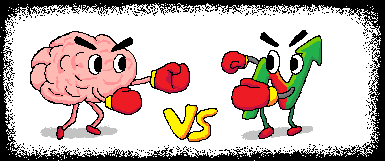
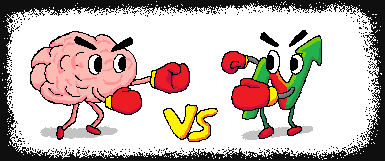
changed the file structure to be easier to read

Changed region(s): [[0.0, 0.0, 0.9974, 0.9938]]

diff --git a/website/tutorial_deployment.js b/website/tutorial_deployment.js
@@ -100,13 +100,13 @@ eval("{__webpack_require__.r(__webpack_exports__);\n/* harmony export */ __webpa
 
 /***/ },
 
-/***/ "./app_logic/game_loop.js"
-/*!********************************!*\
-  !*** ./app_logic/game_loop.js ***!
-  \********************************/
+/***/ "./app_logic/tutorial.js"
+/*!*******************************!*\
+  !*** ./app_logic/tutorial.js ***!
+  \*******************************/
 (__webpack_module__, __webpack_exports__, __webpack_require__) {
 
-eval("{__webpack_require__.a(__webpack_module__, async (__webpack_handle_async_dependencies__, __webpack_async_result__) => { try {\n__webpack_require__.r(__webpack_exports__);\n/* harmony import */ var _game_logic_functions_chart_js__WEBPACK_IMPORTED_MODULE_0__ = __webpack_require__(/*! ./game_logic_functions/chart.js */ \"./app_logic/game_logic_functions/chart.js\");\n/* harmony import */ var _game_logic_functions_price_container_js__WEBPACK_IMPORTED_MODULE_1__ = __webpack_require__(/*! ./game_logic_functions/price_container.js */ \"./app_logic/game_logic_functions/price_container.js\");\n/* harmony import */ var _game_logic_functions_event_broad_caster_js__WEBPACK_IMPORTED_MODULE_2__ = __webpack_require__(/*! ./game_logic_functions/event_broad_caster.js */ \"./app_logic/game_logic_functions/event_broad_caster.js\");\n/* harmony import */ var _game_logic_functions_trade_execution_js__WEBPACK_IMPORTED_MODULE_3__ = __webpack_require__(/*! ./game_logic_functions/trade_execution.js */ \"./app_logic/game_logic_functions/trade_execution.js\");\n/* harmony import */ var _game_logic_functions_current_profit_render_js__WEBPACK_IMPORTED_MODULE_4__ = __webpack_require__(/*! ./game_logic_functions/current_profit_render.js */ \"./app_logic/game_logic_functions/current_profit_render.js\");\n/* harmony import */ var _game_logic_functions_trade_history_js__WEBPACK_IMPORTED_MODULE_5__ = __webpack_require__(/*! ./game_logic_functions/trade_history.js */ \"./app_logic/game_logic_functions/trade_history.js\");\n/* harmony import */ var _constants_js__WEBPACK_IMPORTED_MODULE_6__ = __webpack_require__(/*! ./constants.js */ \"./app_logic/constants.js\");\n/* harmony import */ var _game_logic_functions_local_stats_js__WEBPACK_IMPORTED_MODULE_7__ = __webpack_require__(/*! ./game_logic_functions/local_stats.js */ \"./app_logic/game_logic_functions/local_stats.js\");\n/* harmony import */ var _game_logic_functions_confetti_js__WEBPACK_IMPORTED_MODULE_8__ = __webpack_require__(/*! ./game_logic_functions/confetti.js */ \"./app_logic/game_logic_functions/confetti.js\");\n\n\n\n\n\n\n\n\n\n\nconst priceDataContainer = new _game_logic_functions_price_container_js__WEBPACK_IMPORTED_MODULE_1__.PriceDataContainer()\nawait priceDataContainer.initialiseItSelfWithData()\n\nconst evenBroadCaster = new _game_logic_functions_event_broad_caster_js__WEBPACK_IMPORTED_MODULE_2__.EventBroadCaster()\nconst mainChart = new _game_logic_functions_chart_js__WEBPACK_IMPORTED_MODULE_0__.Chart()\nconst tradeExecuter = new _game_logic_functions_trade_execution_js__WEBPACK_IMPORTED_MODULE_3__.TradeExecute(evenBroadCaster)\nconst realisedProfitRender = new _game_logic_functions_current_profit_render_js__WEBPACK_IMPORTED_MODULE_4__.RealisedProfitRender()\nconst unrealisedProfitRender = new _game_logic_functions_current_profit_render_js__WEBPACK_IMPORTED_MODULE_4__.UnrealisedProfitRender()\nconst tradeHistoryRender = new _game_logic_functions_trade_history_js__WEBPACK_IMPORTED_MODULE_5__.TradeHistoryRender()\nconst tradeStatsCalc = new _game_logic_functions_local_stats_js__WEBPACK_IMPORTED_MODULE_7__.TradeStats(evenBroadCaster)\n\nevenBroadCaster.on(_constants_js__WEBPACK_IMPORTED_MODULE_6__.INITIAL_DATA_EVENT, (data) => {mainChart.initialiseChartWithData(data)})\nevenBroadCaster.distribute(_constants_js__WEBPACK_IMPORTED_MODULE_6__.INITIAL_DATA_EVENT, priceDataContainer.getInitialData())\n\nevenBroadCaster.on(_constants_js__WEBPACK_IMPORTED_MODULE_6__.NEW_CANDLE_EVENT, (candle) => {mainChart.updateChartWithCandle(candle)})\nevenBroadCaster.on(_constants_js__WEBPACK_IMPORTED_MODULE_6__.NEW_CANDLE_EVENT, (candle) => {tradeExecuter.updateCurrCandle(candle)})\n\nevenBroadCaster.on(_constants_js__WEBPACK_IMPORTED_MODULE_6__.END_OF_DATA, () => {tradeExecuter.saveAndBroadCastHistory()})\nevenBroadCaster.on(_constants_js__WEBPACK_IMPORTED_MODULE_6__.FULL_TRADE_HISTORY, (tradeHist) => {tradeStatsCalc.recieveTradeHistory(tradeHist)})\n\nevenBroadCaster.on(_constants_js__WEBPACK_IMPORTED_MODULE_6__.FULL_TRADE_HISTORY, (tradeHist) => {mainChart.displayTradeLines(tradeHist)})\n\nevenBroadCaster.on(_game_logic_functions_trade_execution_js__WEBPACK_IMPORTED_MODULE_3__.TRADE_EXED, (tradeInfo) => {mainChart.handleTradeExecution(tradeInfo)})\nevenBroadCaster.on(_game_logic_functions_trade_execution_js__WEBPACK_IMPORTED_MODULE_3__.TRADE_EXED, (tradeInfo) => {realisedProfitRender.updateBalance(tradeInfo)})\nevenBroadCaster.on(_game_logic_functions_trade_execution_js__WEBPACK_IMPORTED_MODULE_3__.UNREALISED_PROFIT_UPDATE, (unrealisedProfitInfo) => {unrealisedProfitRender.updateBalance(unrealisedProfitInfo)})\nevenBroadCaster.on(_game_logic_functions_trade_execution_js__WEBPACK_IMPORTED_MODULE_3__.HISTORY_UPDATE, (tradeInfo) => {tradeHistoryRender.updateHistory(tradeInfo)})\n\n//ending stats sequence\nevenBroadCaster.on(_constants_js__WEBPACK_IMPORTED_MODULE_6__.END_OF_DATA, () => {\n    const unrealisedProfitPanel = document.querySelector('.main-loop .panels-container .right-panel .unrealised-profit')\n    const realisedProfitPanel = document.querySelector('.main-loop .panels-container .right-panel .realised-profit')\n\n    const statsPanel = document.querySelector('.main-loop .panels-container .right-panel .trade-stats-card')\n    const finishedButton = document.querySelector('.main-loop .panels-container .right-panel .finished-looking-button')\n\n    const finishedMessage = document.querySelector('.main-loop .end-of-data-texts')\n\n    finishedMessage.classList.remove('hidden')\n\n    unrealisedProfitPanel.classList.add('hidden')\n    realisedProfitPanel.classList.add('hidden')\n\n    statsPanel.classList.remove('hidden')\n    tradeStatsCalc.displayStats()\n\n    mainChart.enableNavigation()\n\n    finishedButton.classList.remove('hidden')\n\n    const buyButton = document.querySelector('.main-loop .panels-container .left-panel .button-row .buy-button')\n    const sellButton = document.querySelector('.main-loop .panels-container .left-panel .button-row .sell-button')\n    const closeButton = document.querySelector('.main-loop .panels-container .left-panel .button-row .close-button')\n\n    buyButton.classList.add('hidden')\n    sellButton.classList.add('hidden')\n    closeButton.classList.add('hidden')\n\n    ;(0,_game_logic_functions_confetti_js__WEBPACK_IMPORTED_MODULE_8__.doConfettiInRectangle)('.main-loop .panels-container .left-panel .chart-rectangle', 60, 60, 45)\n})\n\nconst finishedButton = document.querySelector('.main-loop .panels-container .right-panel .finished-looking-button')\nfinishedButton.addEventListener('click', () => {\n    window.location.href = \"../ending/ending.html\"\n})\n\nconst intervalID = setInterval(() => {\n    const response = priceDataContainer.getNextCandle()\n    if (response && !response['thereIsMore']) {\n        evenBroadCaster.distribute(_constants_js__WEBPACK_IMPORTED_MODULE_6__.END_OF_DATA)\n\n        clearInterval(intervalID)\n        return\n    }\n\n    evenBroadCaster.distribute(_constants_js__WEBPACK_IMPORTED_MODULE_6__.NEW_CANDLE_EVENT, response['candle'])\n}, 1000)\n\n\n__webpack_async_result__();\n} catch(e) { __webpack_async_result__(e); } }, 1);\n\n//# sourceURL=webpack:///./app_logic/game_loop.js?\n}");
+eval("{__webpack_require__.a(__webpack_module__, async (__webpack_handle_async_dependencies__, __webpack_async_result__) => { try {\n__webpack_require__.r(__webpack_exports__);\n/* harmony import */ var _game_logic_functions_chart_js__WEBPACK_IMPORTED_MODULE_0__ = __webpack_require__(/*! ./game_logic_functions/chart.js */ \"./app_logic/game_logic_functions/chart.js\");\n/* harmony import */ var _game_logic_functions_price_container_js__WEBPACK_IMPORTED_MODULE_1__ = __webpack_require__(/*! ./game_logic_functions/price_container.js */ \"./app_logic/game_logic_functions/price_container.js\");\n/* harmony import */ var _game_logic_functions_event_broad_caster_js__WEBPACK_IMPORTED_MODULE_2__ = __webpack_require__(/*! ./game_logic_functions/event_broad_caster.js */ \"./app_logic/game_logic_functions/event_broad_caster.js\");\n/* harmony import */ var _game_logic_functions_trade_execution_js__WEBPACK_IMPORTED_MODULE_3__ = __webpack_require__(/*! ./game_logic_functions/trade_execution.js */ \"./app_logic/game_logic_functions/trade_execution.js\");\n/* harmony import */ var _game_logic_functions_current_profit_render_js__WEBPACK_IMPORTED_MODULE_4__ = __webpack_require__(/*! ./game_logic_functions/current_profit_render.js */ \"./app_logic/game_logic_functions/current_profit_render.js\");\n/* harmony import */ var _game_logic_functions_trade_history_js__WEBPACK_IMPORTED_MODULE_5__ = __webpack_require__(/*! ./game_logic_functions/trade_history.js */ \"./app_logic/game_logic_functions/trade_history.js\");\n/* harmony import */ var _constants_js__WEBPACK_IMPORTED_MODULE_6__ = __webpack_require__(/*! ./constants.js */ \"./app_logic/constants.js\");\n/* harmony import */ var _game_logic_functions_local_stats_js__WEBPACK_IMPORTED_MODULE_7__ = __webpack_require__(/*! ./game_logic_functions/local_stats.js */ \"./app_logic/game_logic_functions/local_stats.js\");\n/* harmony import */ var _game_logic_functions_confetti_js__WEBPACK_IMPORTED_MODULE_8__ = __webpack_require__(/*! ./game_logic_functions/confetti.js */ \"./app_logic/game_logic_functions/confetti.js\");\n\n\n\n\n\n\n\n\n\n\nconst priceDataContainer = new _game_logic_functions_price_container_js__WEBPACK_IMPORTED_MODULE_1__.PriceDataContainer()\nawait priceDataContainer.initialiseItSelfWithData()\n\nconst evenBroadCaster = new _game_logic_functions_event_broad_caster_js__WEBPACK_IMPORTED_MODULE_2__.EventBroadCaster()\nconst mainChart = new _game_logic_functions_chart_js__WEBPACK_IMPORTED_MODULE_0__.Chart()\nconst tradeExecuter = new _game_logic_functions_trade_execution_js__WEBPACK_IMPORTED_MODULE_3__.TradeExecute(evenBroadCaster)\nconst realisedProfitRender = new _game_logic_functions_current_profit_render_js__WEBPACK_IMPORTED_MODULE_4__.RealisedProfitRender()\nconst unrealisedProfitRender = new _game_logic_functions_current_profit_render_js__WEBPACK_IMPORTED_MODULE_4__.UnrealisedProfitRender()\nconst tradeHistoryRender = new _game_logic_functions_trade_history_js__WEBPACK_IMPORTED_MODULE_5__.TradeHistoryRender()\nconst tradeStatsCalc = new _game_logic_functions_local_stats_js__WEBPACK_IMPORTED_MODULE_7__.TradeStats(evenBroadCaster)\n\nevenBroadCaster.on(_constants_js__WEBPACK_IMPORTED_MODULE_6__.INITIAL_DATA_EVENT, (data) => {mainChart.initialiseChartWithData(data)})\nevenBroadCaster.distribute(_constants_js__WEBPACK_IMPORTED_MODULE_6__.INITIAL_DATA_EVENT, priceDataContainer.getInitialData())\n\nevenBroadCaster.on(_constants_js__WEBPACK_IMPORTED_MODULE_6__.NEW_CANDLE_EVENT, (candle) => {mainChart.updateChartWithCandle(candle)})\nevenBroadCaster.on(_constants_js__WEBPACK_IMPORTED_MODULE_6__.NEW_CANDLE_EVENT, (candle) => {tradeExecuter.updateCurrCandle(candle)})\n\nevenBroadCaster.on(_constants_js__WEBPACK_IMPORTED_MODULE_6__.END_OF_DATA, () => {tradeExecuter.saveAndBroadCastHistory()})\nevenBroadCaster.on(_constants_js__WEBPACK_IMPORTED_MODULE_6__.FULL_TRADE_HISTORY, (tradeHist) => {tradeStatsCalc.recieveTradeHistory(tradeHist)})\n\nevenBroadCaster.on(_constants_js__WEBPACK_IMPORTED_MODULE_6__.FULL_TRADE_HISTORY, (tradeHist) => {mainChart.displayTradeLines(tradeHist)})\n\nevenBroadCaster.on(_game_logic_functions_trade_execution_js__WEBPACK_IMPORTED_MODULE_3__.TRADE_EXED, (tradeInfo) => {mainChart.handleTradeExecution(tradeInfo)})\nevenBroadCaster.on(_game_logic_functions_trade_execution_js__WEBPACK_IMPORTED_MODULE_3__.TRADE_EXED, (tradeInfo) => {realisedProfitRender.updateBalance(tradeInfo)})\nevenBroadCaster.on(_game_logic_functions_trade_execution_js__WEBPACK_IMPORTED_MODULE_3__.UNREALISED_PROFIT_UPDATE, (unrealisedProfitInfo) => {unrealisedProfitRender.updateBalance(unrealisedProfitInfo)})\nevenBroadCaster.on(_game_logic_functions_trade_execution_js__WEBPACK_IMPORTED_MODULE_3__.HISTORY_UPDATE, (tradeInfo) => {tradeHistoryRender.updateHistory(tradeInfo)})\n\n//ending stats sequence\nevenBroadCaster.on(_constants_js__WEBPACK_IMPORTED_MODULE_6__.END_OF_DATA, () => {\n    const unrealisedProfitPanel = document.querySelector('.main-loop .panels-container .right-panel .unrealised-profit')\n    const realisedProfitPanel = document.querySelector('.main-loop .panels-container .right-panel .realised-profit')\n\n    const statsPanel = document.querySelector('.main-loop .panels-container .right-panel .trade-stats-card')\n    const finishedButton = document.querySelector('.main-loop .panels-container .right-panel .finished-looking-button')\n\n    const finishedMessage = document.querySelector('.main-loop .end-of-data-texts')\n\n    finishedMessage.classList.remove('hidden')\n\n    unrealisedProfitPanel.classList.add('hidden')\n    realisedProfitPanel.classList.add('hidden')\n\n    statsPanel.classList.remove('hidden')\n    tradeStatsCalc.displayStats()\n\n    mainChart.enableNavigation()\n\n    finishedButton.classList.remove('hidden')\n\n    const buyButton = document.querySelector('.main-loop .panels-container .left-panel .button-row .buy-button')\n    const sellButton = document.querySelector('.main-loop .panels-container .left-panel .button-row .sell-button')\n    const closeButton = document.querySelector('.main-loop .panels-container .left-panel .button-row .close-button')\n\n    buyButton.classList.add('hidden')\n    sellButton.classList.add('hidden')\n    closeButton.classList.add('hidden')\n\n    ;(0,_game_logic_functions_confetti_js__WEBPACK_IMPORTED_MODULE_8__.doConfettiInRectangle)('.main-loop .panels-container .left-panel .chart-rectangle', 60, 60, 45)\n})\n\nconst finishedButton = document.querySelector('.main-loop .panels-container .right-panel .finished-looking-button')\nfinishedButton.addEventListener('click', () => {\n    window.location.href = \"ending.html\"\n})\n\nconst intervalID = setInterval(() => {\n    const response = priceDataContainer.getNextCandle()\n    if (response && !response['thereIsMore']) {\n        evenBroadCaster.distribute(_constants_js__WEBPACK_IMPORTED_MODULE_6__.END_OF_DATA)\n\n        clearInterval(intervalID)\n        return\n    }\n\n    evenBroadCaster.distribute(_constants_js__WEBPACK_IMPORTED_MODULE_6__.NEW_CANDLE_EVENT, response['candle'])\n}, 1000)\n\n\n__webpack_async_result__();\n} catch(e) { __webpack_async_result__(e); } }, 1);\n\n//# sourceURL=webpack:///./app_logic/tutorial.js?\n}");
 
 /***/ },
 
@@ -322,7 +322,7 @@ eval("{__webpack_require__.r(__webpack_exports__);\n/* harmony export */ __webpa
 /******/ 	// startup
 /******/ 	// Load entry module and return exports
 /******/ 	// This entry module can't be inlined because the eval devtool is used.
-/******/ 	var __webpack_exports__ = __webpack_require__("./app_logic/game_loop.js");
+/******/ 	var __webpack_exports__ = __webpack_require__("./app_logic/tutorial.js");
 /******/ 	
 /******/ })()
 ;

diff --git a/website/ending/ending.html b/website/ending/ending.html
@@ -4,7 +4,7 @@
     <meta charset="utf-8" />
     <meta name="viewport" content="width=device-width, initial-scale=1.0"/>
     <title>Trading Statistics</title>
-    <link rel="stylesheet" href="globals.css">
+    <link rel="stylesheet" href="../globals.css">
     <link rel="stylesheet" href="ending-stats-style.css">
 </head>
 <body>
@@ -45,6 +45,6 @@
 
     </main>
 
-    <script type="module" src="ending_deployment.js"></script>
+    <script type="module" src="../ending_deployment.js"></script>
 </body>
 </html>

diff --git a/website/game_loop/game_loop.html b/website/game_loop/game_loop.html
@@ -3,7 +3,7 @@
 <head>
     <meta name="viewport" content="width=device-width, initial-scale=1"/>
     <meta charset="utf-8" />
-    <link rel="stylesheet" href="globals.css">
+    <link rel="stylesheet" href="../globals.css">
     <link rel="stylesheet" href="game_loop_style.css">
 </head>
 <body>
@@ -91,6 +91,6 @@
         </div>
     </div>
 
-    <script type="module" src="game_loop_deployment.js"></script>
+    <script type="module" src="../game_loop_deployment.js"></script>
 </body>
 </html>

diff --git a/app_logic/tutorial.js b/app_logic/tutorial.js
@@ -80,7 +80,7 @@ evenBroadCaster.on(END_OF_DATA, () => {
 
 const finishedButton = document.querySelector('.main-loop .panels-container .right-panel .finished-looking-button')
 finishedButton.addEventListener('click', () => {
-    window.location.href = "../ending/ending.html"
+    window.location.href = "ending.html"
 })
 
 const intervalID = setInterval(() => {

diff --git a/app_logic/game_logic_functions/price_container.js b/app_logic/game_logic_functions/price_container.js
@@ -6,7 +6,7 @@ export class PriceDataContainer {
     }
 
     async initialiseItSelfWithData() {
-        const response = await fetch('./chart_data.json')
+        const response = await fetch('../chart_data.json')
         const candleStickData = await response.json()
 
         this.initialCandles = candleStickData.splice(0, 25)

diff --git a/website/index.html b/website/index.html
@@ -35,7 +35,7 @@
     <script type="module">
         const nextButton = document.querySelector('.content-wrapper .next-button')
         nextButton.addEventListener('click', () => {
-            window.location.href = 'game_loop.html'
+            window.location.href = 'game_loop/game_loop.html'
         })
     </script>
 </body>

diff --git a/app_logic/constants.js b/app_logic/constants.js
@@ -6,3 +6,7 @@ export const blackColor = '#000000'
 
 export const SAVED_TRADE_HISTORY = 'trade history'
 export const FULL_TRADE_HISTORY = 'FULL TRADE HISTORY IS SENT'
+
+export const INITIAL_DATA_EVENT = "INITIAL DATA"
+export const NEW_CANDLE_EVENT = "NEW CANDLE"
+export const END_OF_DATA = "NO MORE DATA"

diff --git a/app_logic/game_logic_functions/current_profit_render.js b/app_logic/game_logic_functions/current_profit_render.js
@@ -1,4 +1,4 @@
-import { blackColor, closeGreyColor, greenColor, sellRedColor } from "./constants.js"
+import { blackColor, closeGreyColor, greenColor, sellRedColor } from "../constants.js"
 import { TRADE_CLOSED } from "./trade_execution.js"
 
 export class RealisedProfitRender {

diff --git a/webpack.config.js b/webpack.config.js
@@ -8,7 +8,7 @@ const __dirname = path.dirname(__filename)
 
 export default {
     entry: {
-        start: './app_logic/start.js',
+        tutorial: './app_logic/tutorial.js',
         ending: './app_logic/ending.js',
         game_loop: './app_logic/game_loop.js'
     },

diff --git a/app_logic/game_logic_functions/trade_execution.js b/app_logic/game_logic_functions/trade_execution.js
@@ -1,4 +1,4 @@
-import { FULL_TRADE_HISTORY, SAVED_TRADE_HISTORY } from "./constants.js"
+import { FULL_TRADE_HISTORY, SAVED_TRADE_HISTORY } from "../constants.js"
 
 export const TRADE_EXED = 'TRADE EXECUTED'
 export const TRADE_EXE_BOUGHT = 'BUY EXECUTED'

diff --git a/app_logic/game_logic_functions/local_stats.js b/app_logic/game_logic_functions/local_stats.js
@@ -1,4 +1,4 @@
-import { blackColor, greenColor, sellRedColor } from "./constants.js"
+import { blackColor, greenColor, sellRedColor } from "../constants.js"
 import { TRADE_EXE_BOUGHT } from "./trade_execution.js"
 
 

diff --git a/app_logic/game_logic_functions/trade_history.js b/app_logic/game_logic_functions/trade_history.js
@@ -1,4 +1,4 @@
-import { greenColor, sellRedColor } from "./constants.js"
+import { greenColor, sellRedColor } from "../constants.js"
 import { 
     TRADE_EXE_BOUGHT
 } from "./trade_execution.js"
